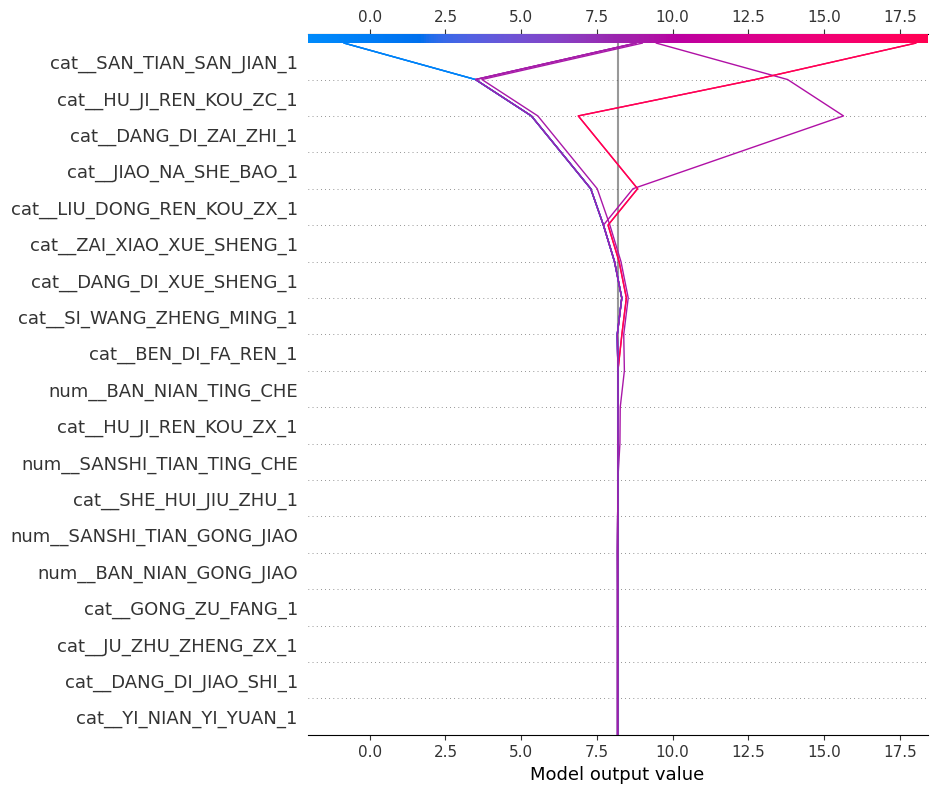
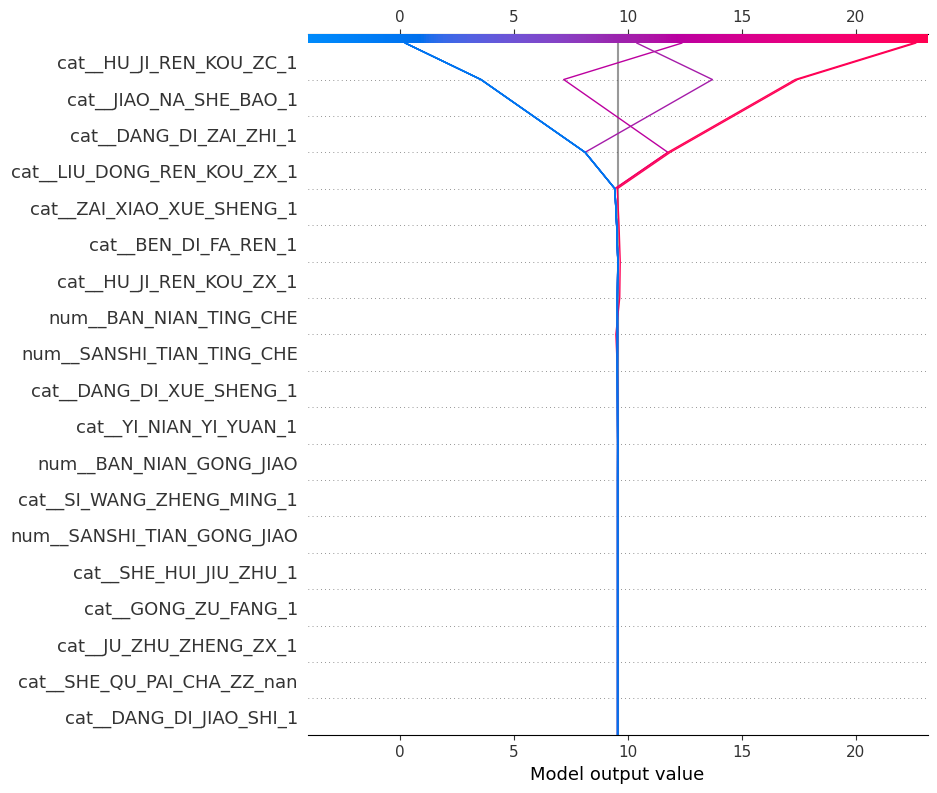
code restructured

diff --git a/src/train_predict_evaluate/main.py b/src/train_predict_evaluate/main.py
@@ -19,8 +19,9 @@ new_data_file = DIR_PATH + 'data/data_to_predict_final.csv'
 # 数据预处理
 data = dp.load_data(data_file)
 target = 'PAN_DUAN_JIE_GUO'
+target_predict = 'PAN_DUAN_JIE_GUO_ML'
 
-categorical_features = ['SAN_YUE_YI_YUAN','YI_NIAN_YI_YUAN','DANG_DI_JIAO_SHI','DANG_DI_XUE_SHENG','DANG_DI_ZAI_ZHI','GONG_JI_JIN','BU_DONG_CHAN_SHU_LIANG','GONG_ZU_FANG','JIN_QI_JIAO_YI','SHE_HUI_JIU_ZHU','BEN_DI_FA_REN','SI_WANG_ZHENG_MING','SAN_TIAN_SAN_JIAN','HU_JI_REN_KOU_ZC','JIAO_NA_SHE_BAO','ZAI_XIAO_XUE_SHENG','HU_JI_REN_KOU_ZX','LIU_DONG_REN_KOU_ZX','JU_ZHU_ZHENG_ZX']  # 分类特征
+categorical_features = ['SAN_YUE_YI_YUAN','YI_NIAN_YI_YUAN','DANG_DI_JIAO_SHI','DANG_DI_XUE_SHENG','DANG_DI_ZAI_ZHI','GONG_JI_JIN','BU_DONG_CHAN_SHU_LIANG','GONG_ZU_FANG','JIN_QI_JIAO_YI','SHE_HUI_JIU_ZHU','BEN_DI_FA_REN','SI_WANG_ZHENG_MING','HU_JI_REN_KOU_ZC','JIAO_NA_SHE_BAO','ZAI_XIAO_XUE_SHENG','HU_JI_REN_KOU_ZX','LIU_DONG_REN_KOU_ZX','JU_ZHU_ZHENG_ZX','SHE_QU_PAI_CHA_ZZ']  # 分类特征
 numerical_features = ['SANSHI_TIAN_TING_CHE','BAN_NIAN_TING_CHE','SANSHI_TIAN_GONG_JIAO','BAN_NIAN_GONG_JIAO']  # 数值特征
 
 print("categories features length: ", len(categorical_features))
@@ -60,7 +61,7 @@ print("Model intercept: ", model.intercept_)
 
 # 对新数据进行预测
 new_data = dp.load_data(new_data_file)
-new_data_processed, _ = dp.preprocess_data(new_data, target, categorical_features, numerical_features, preprocessor)
+new_data_processed, _ = dp.preprocess_data(new_data, target_predict, categorical_features, numerical_features, preprocessor)
 predictions = model.predict(new_data_processed)
 
 print("predictions: ", predictions)

diff --git a/src/preprocess/data_reader.py b/src/preprocess/data_reader.py
@@ -1,8 +1,9 @@
-# 1st step
+# 读取 CSV 源文件文件，转换成训练数据和预测数据
+
 import pandas as pd
 
 # 替换为您的 CSV 文件路径
-file_path = './data/DWD_NBBL_RKTZ_DTRKTZ_DF_202311211623.csv'
+file_path = './data/DWD_NBBL_RKTZ_DTRKTZ_DF_202401291630.csv'
 df = pd.read_csv(file_path, sep=',')
 print("df", df)
 # 打印每个字段的数据类型

diff --git a/src/preprocess/test.py b/src/preprocess/test.py
@@ -1,0 +1,6 @@
+import pandas as pd
+
+# 替换为您的 CSV 文件路径
+file_path = './data/DWD_NBBL_RKTZ_DTRKTZ_DF_202401291630.csv'
+df = pd.read_csv(file_path, sep=',')
+print("df", (df['SHE_QU_PAI_CHA_ZZ'].notna()).sum())
